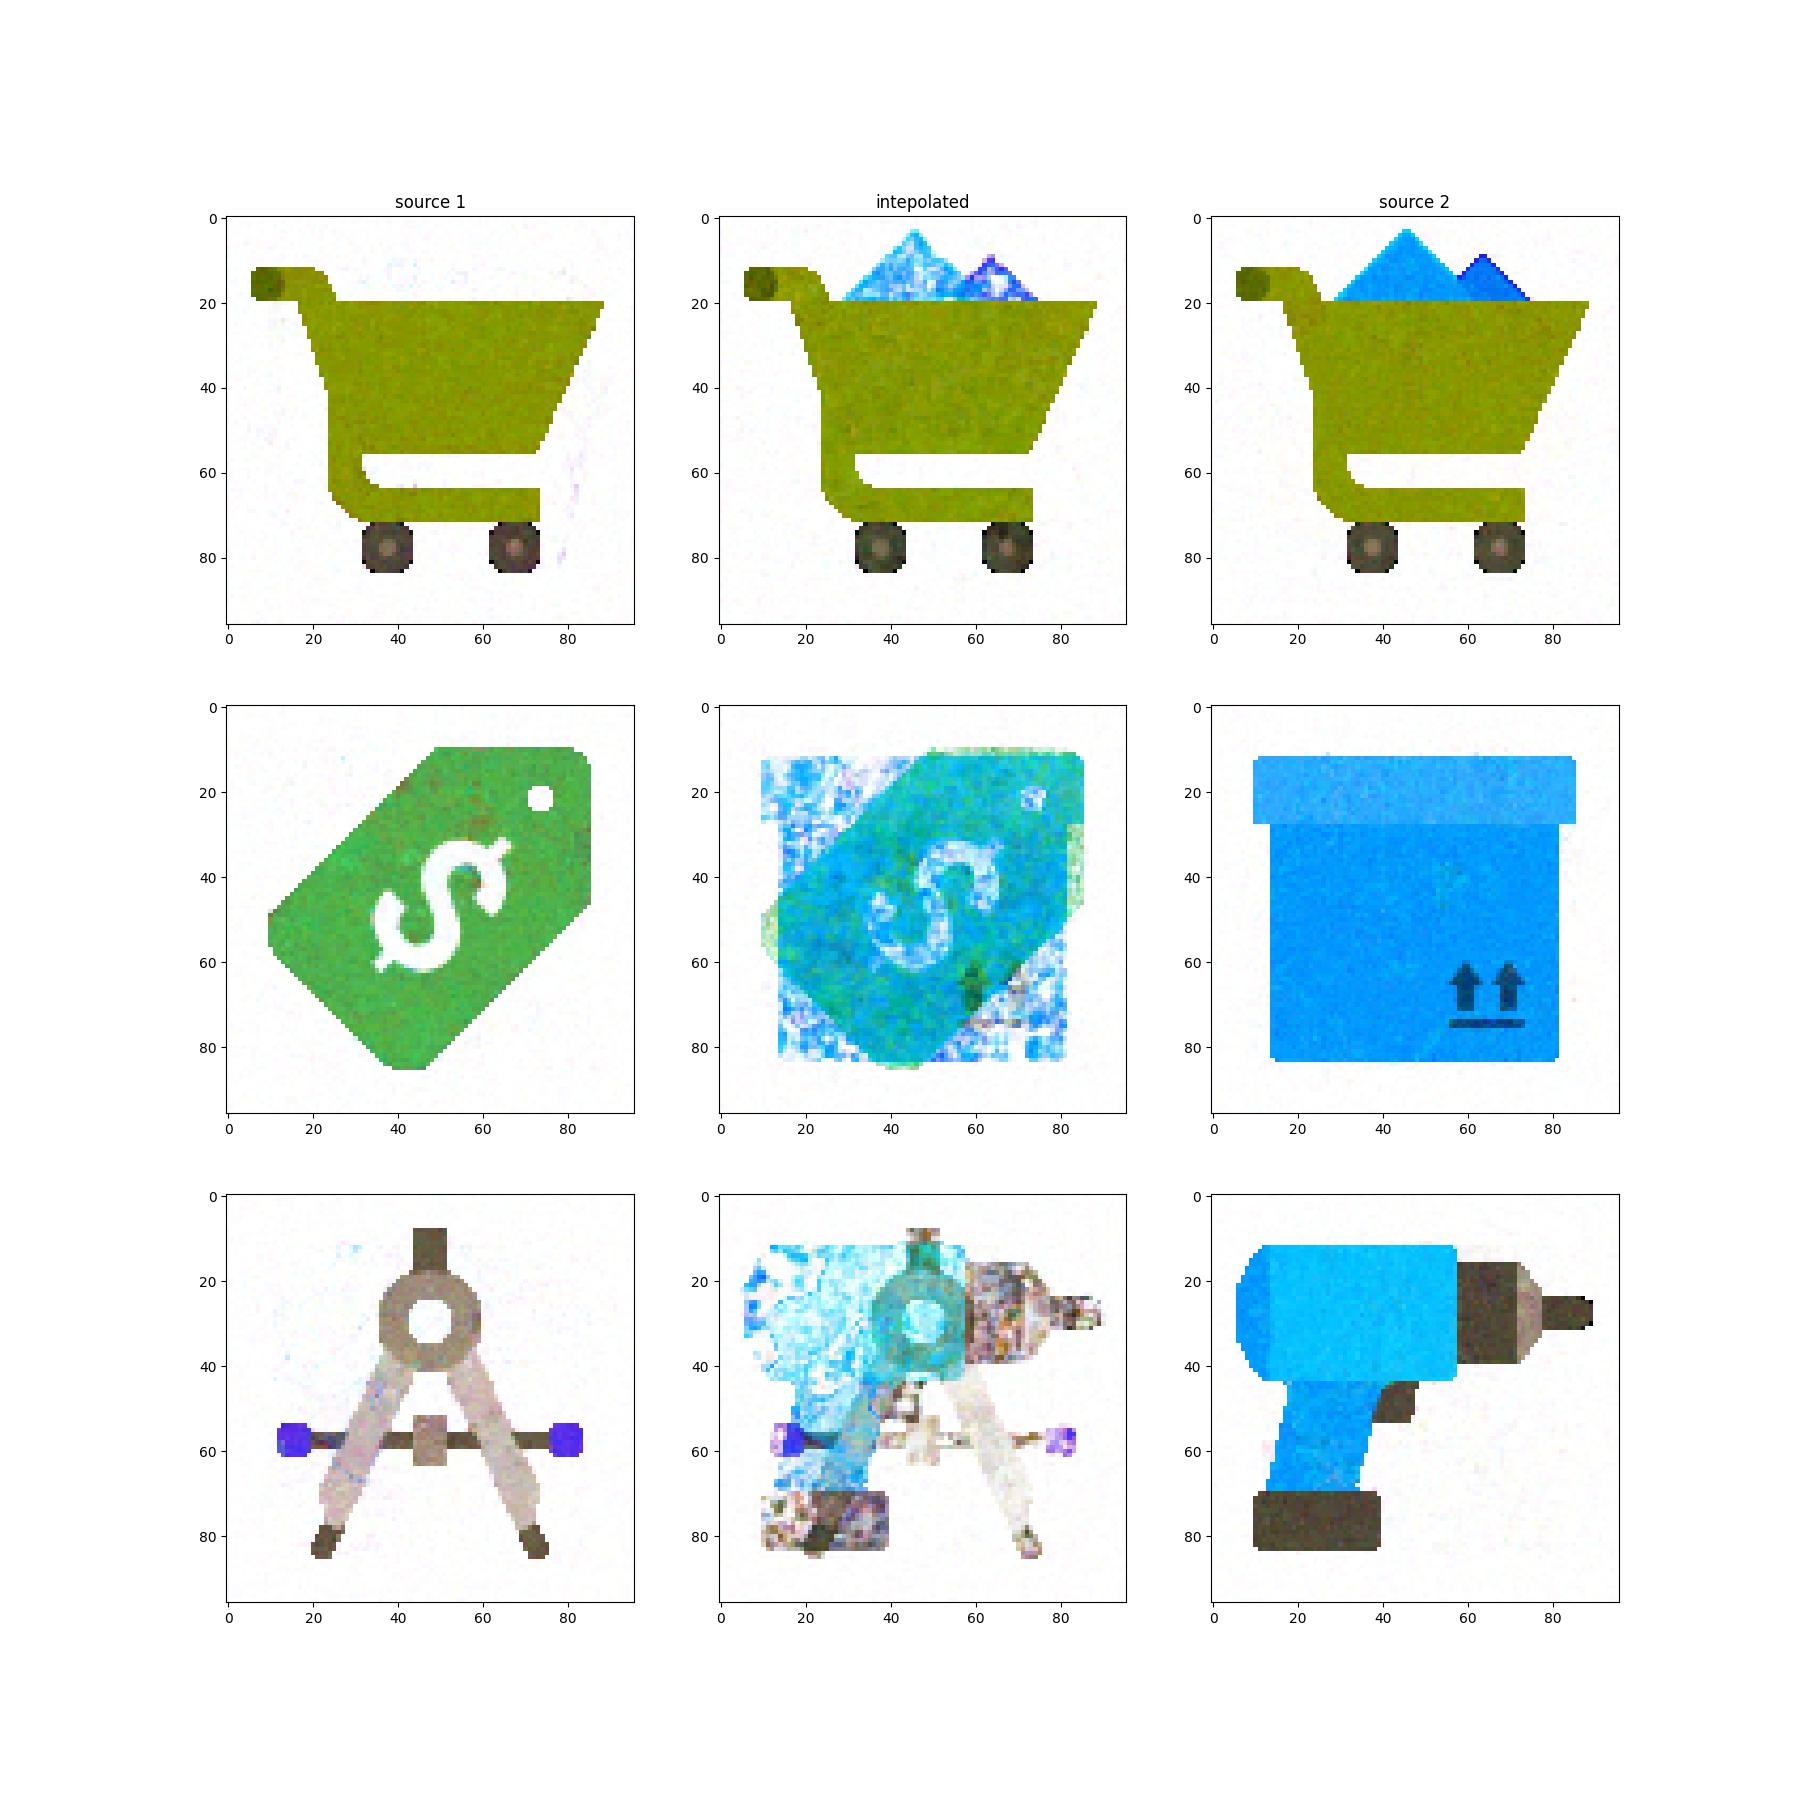
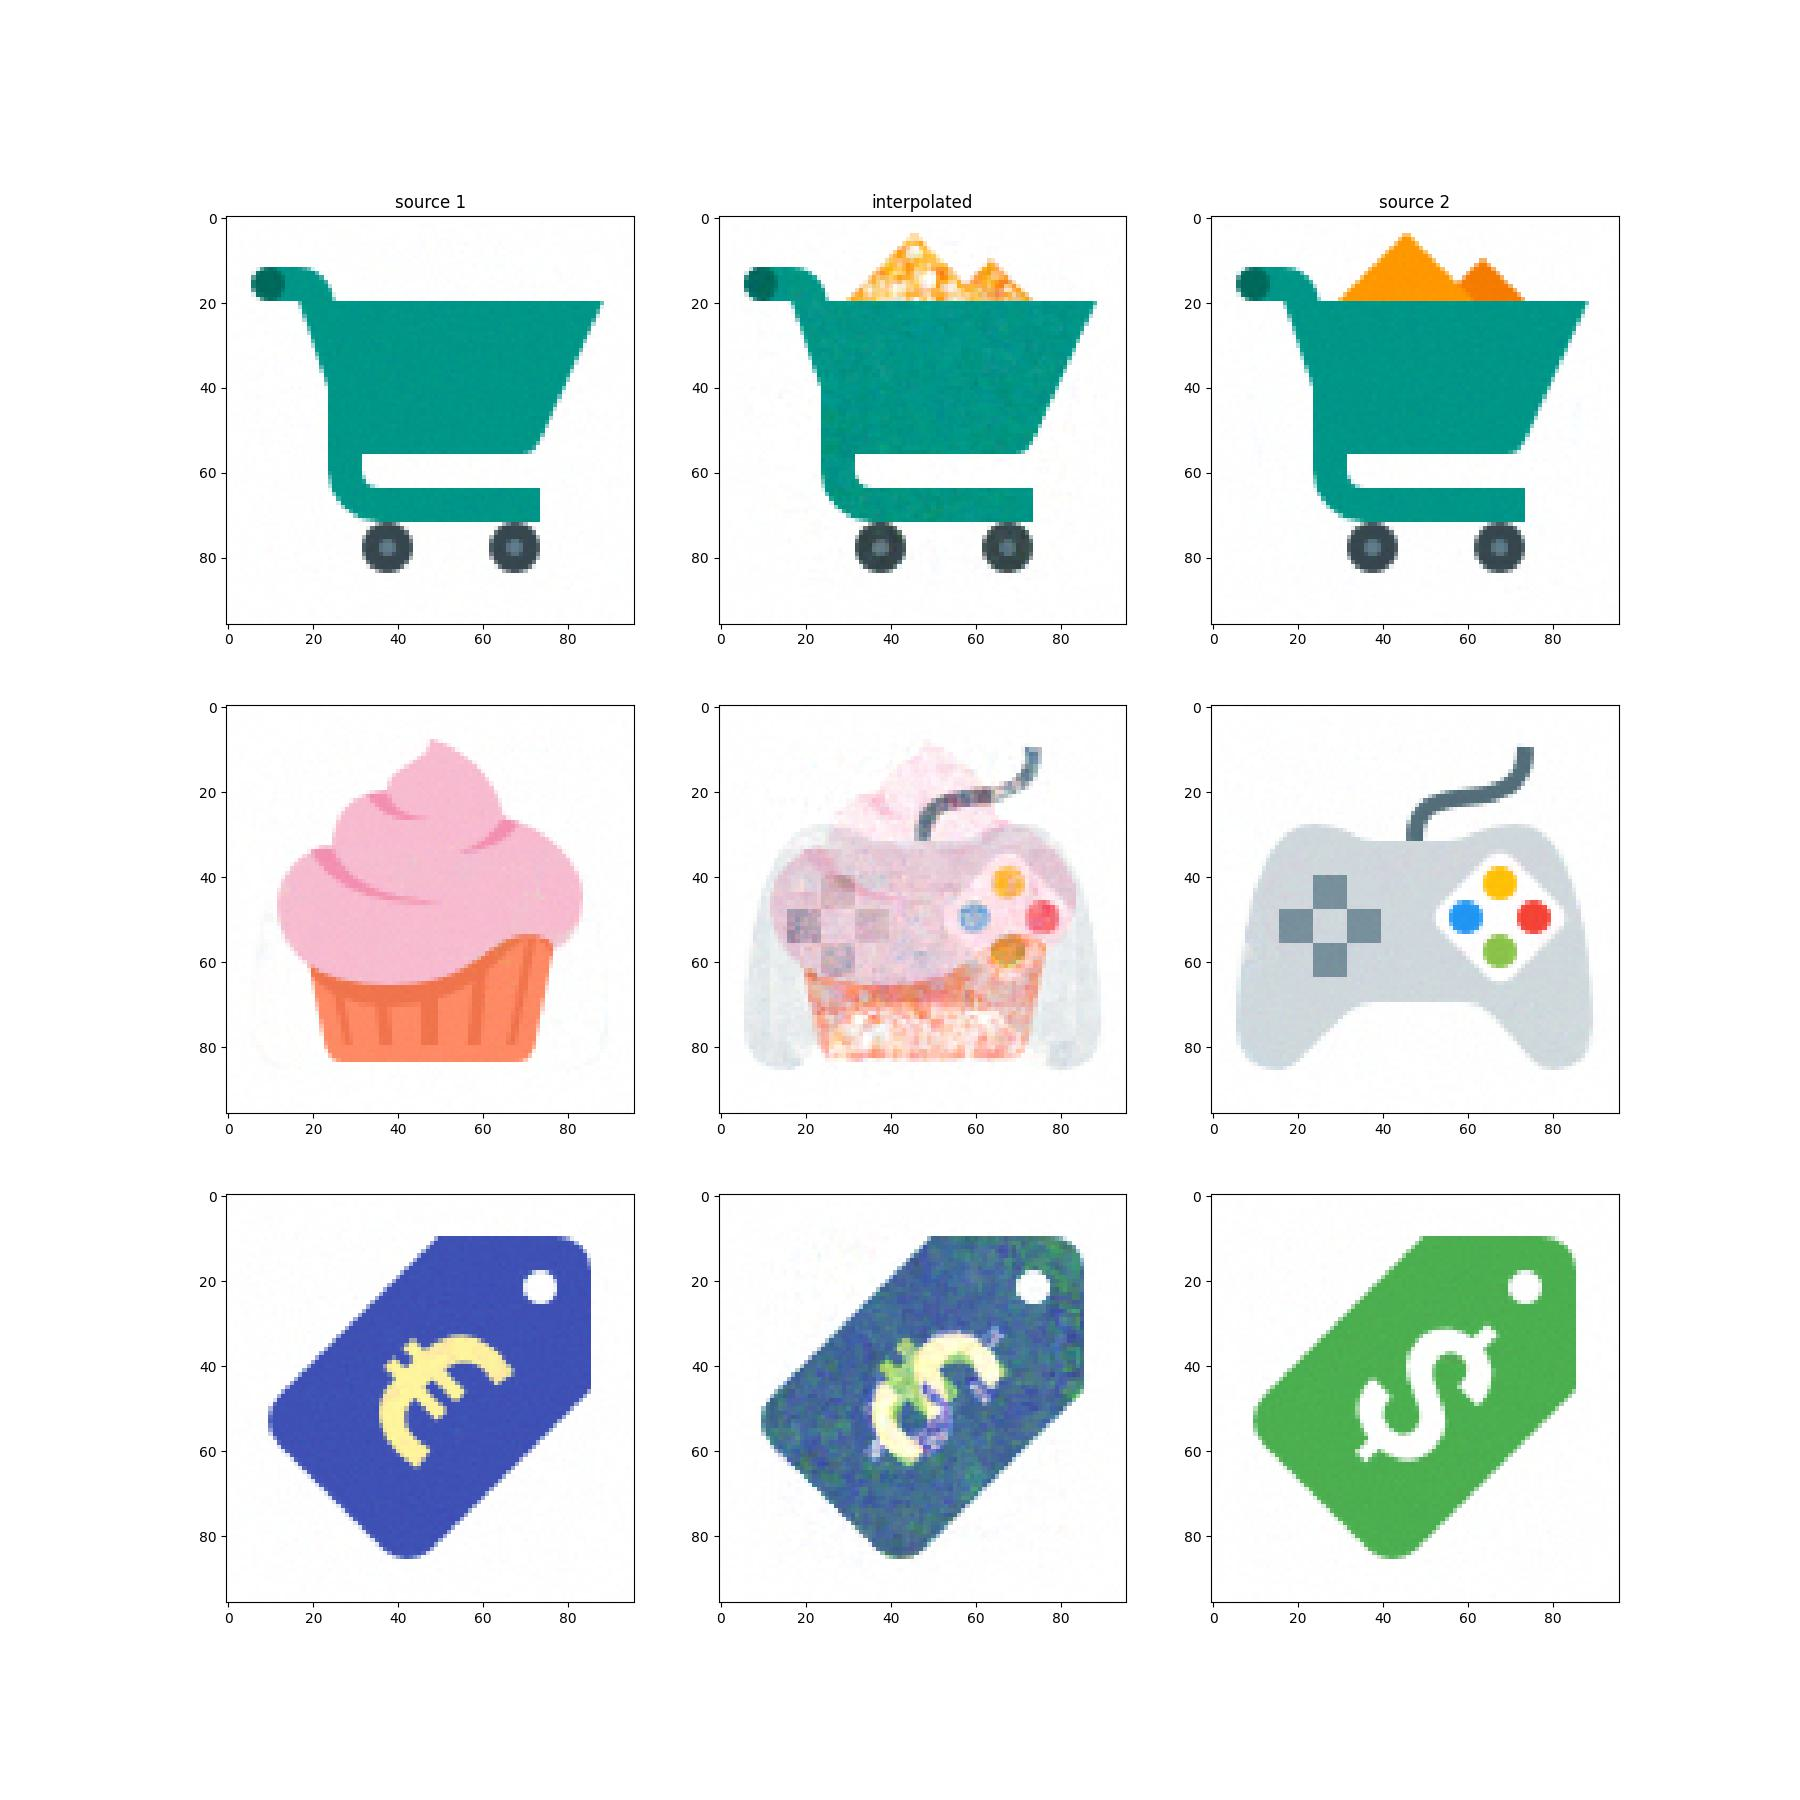
Add files via upload
fixed to white background

diff --git a/data_pipeline.py b/data_pipeline.py
@@ -1,16 +1,19 @@
 import os
 import random
 from glob import glob
-import numpy as np
+
 import cv2
+import numpy as np
 import torch
 from torch.utils.data import Dataset
 
 
 def get_mgrid(sidelen: int, dim=2):
-    '''Generates a flattened grid of (x,y,...) coordinates in a range of -1 to 1.
+    """
+    Generates a flattened grid of (x,y,...) coordinates in a range of -1 to 1.
     sidelen: int
-    dim: int'''
+    dim: int
+    """
     tensors = tuple(dim * [torch.linspace(-1, 1, steps=sidelen)])
     mgrid = torch.stack(torch.meshgrid(*tensors), dim=-1)
     mgrid = mgrid.reshape(-1, dim)
@@ -27,20 +30,30 @@ def collate_1d(data):
     return torch.concat(x, dim=0), torch.concat(y, dim=0), meta
 
 
-def read_im(f: str):
-    return ((cv2.cvtColor(cv2.imread(f, cv2.IMREAD_UNCHANGED), cv2.COLOR_RGBA2RGB) / 255. - 0.5) * 2).astype(np.float)
+def read_im(f: str, set_transparent_to_white=True):
+    raw_img = cv2.imread(f, cv2.IMREAD_UNCHANGED)
+    # if train:
+    #     img = cv2.resize(cv2.cvtColor(raw_img, cv2.COLOR_BGRA2BGR), (48, 48))
+    # else:
+    img = cv2.cvtColor(raw_img, cv2.COLOR_RGBA2RGB)
+    # Transperent -> White for consistenty
+    if set_transparent_to_white:
+        img = (255 - raw_img[:, :, 3:]) + (raw_img[:, :, 3:] / 255 * img)
+    return ((img / 255. - 0.5) * 2).astype(np.float32)
 
 
 class ImageFitting(Dataset):
-    def __init__(self, path, limit=None, cach=True):
+    def __init__(self, path, limit=None, cach=True, train=False, set_transparent_to_white=True):
         super().__init__()
-        self.sample_list = list(glob(os.path.join(path, "*.png")))
-        if cach:
-            self._cached_samples = [read_im(f) for f in self.sample_list]
-        else:
-            self._cached_samples = None
         self.path = path
         self.limit = limit
+        self.train = train
+        self.set_transparent_to_white = set_transparent_to_white
+        self.sample_list = list(glob(os.path.join(path, "*.png")))
+        if cach:
+            self._cached_samples = [read_im(f, self.set_transparent_to_white) for f in self.sample_list]
+        else:
+            self._cached_samples = None
 
         categories = [os.path.basename(s.split("-")[0]) for s in self.sample_list]
         cats = sorted(set(categories))
@@ -54,12 +67,13 @@ class ImageFitting(Dataset):
     def __getitem__(self, idx):
         # img = transform(cv2.imread(self.sample_list[idx]))
         if self._cached_samples:
-            img = torch.tensor(self._cached_samples[idx],dtype=torch.float32)
+            img = torch.tensor(self._cached_samples[idx], dtype=torch.float32)
         else:
-            img = torch.tensor(read_im(self.sample_list[idx]),dtype=torch.float32)
+            img = torch.tensor(read_im(self.sample_list[idx], self.set_transparent_to_white), dtype=torch.float32)
         pixels = img.view(-1, img.shape[2])
         # assume square samples only
         coords = get_mgrid(img.shape[1], 2)
+
         coords = torch.concat((coords, self.mapping[idx] * torch.ones([coords.shape[0], 1])), dim=-1)
         if self.limit:
             len_coord = len(coords)

diff --git a/eval_trained.py b/eval_trained.py
@@ -4,13 +4,13 @@ from glob import glob
 from typing import List
 
 import cv2
+import matplotlib.pyplot as plt
+import numpy as np
 import torch
 
-from data_pipeline import get_mgrid
-from model import Siren
-import matplotlib.pyplot as plt
 from config import ModelConfig, add_model
-import numpy as np
+from data_pipeline import get_mgrid, read_im
+from model import Siren
 
 
 def size_interpolation_example():
@@ -37,20 +37,19 @@ def size_interpolation_example():
     plt.savefig("size_interpolation_example.jpg")
 
 
-def sort_by_similarity() -> List[int]:
-    path = r"Data\96"
+def sort_by_similarity(path: str) -> List[int]:
     sample_list = list(glob(os.path.join(path, "*.png")))
     sample_list = sorted(sample_list)
-    _cached_samples = [cv2.imread(f, cv2.IMREAD_UNCHANGED) for f in sample_list]
+    _cached_samples = [read_im(f, set_transparent_to_white=True) for f in sample_list]
     # sort by MSE similarity
-    indxs = np.argsort(np.mean(np.square(np.reshape(np.diff(_cached_samples, axis=0), (-1, 96 ** 2 * 4))), axis=1))
+    indxs = np.argsort(np.mean(np.square(np.reshape(np.diff(_cached_samples, axis=0), (-1, 96 ** 2 * 3))), axis=1))
     return indxs
 
 
 def image_interpolation_example(indxs: List[int]):
     fig, axes = plt.subplots(3, 3, figsize=(18, 18))
     # interpolate between most similar images
-    labels=["source 1", "intepolated" , "source 2"]
+    labels = ["source 1", "interpolated", "source 2"]
     for j in range(3):
         axes[0, j].title.set_text(labels[j])
     for p, idx in enumerate(indxs[:3]):
@@ -60,7 +59,9 @@ def image_interpolation_example(indxs: List[int]):
             coords = get_mgrid(res, dim=2)
             coords = torch.concat((coords, encoded_index * torch.ones([coords.shape[0], 1])), dim=-1)
             model_output_96 = model(coords)
-            axes[p, j].imshow(model_output_96.cpu().view(res, res, 3).detach().numpy() / 2 + 0.5)
+            img_96 = cv2.cvtColor(np.clip(model_output_96.cpu().view(res, res, 3).detach().numpy() / 2 + 0.5, 0, 1),
+                                  cv2.COLOR_RGB2BGR)
+            axes[p, j].imshow(img_96)
     plt.savefig("image_interpolation_example.jpg")
 
 
@@ -80,7 +81,7 @@ if __name__ == "__main__":
     size_interpolation_example()
 
     # Image interpolation example
-
-    indxs = sort_by_similarity()
+    dataset = r"Data\96"
+    indxs = sort_by_similarity(dataset)
 
     image_interpolation_example(indxs)

diff --git a/model.py b/model.py
@@ -43,15 +43,15 @@ class SineLayer(nn.Module):
                 self.linear.weight.uniform_(-np.sqrt(6 / self.in_features) / self.omega_0,
                                             np.sqrt(6 / self.in_features) / self.omega_0)
 
-    def forward(self, input):
-        sin = torch.sin(self.omega_0 * self.linear(input))
+    def forward(self, input_tensor):
+        sin = torch.sin(self.omega_0 * self.linear(input_tensor))
         if self.residual:
-            sin += input
+            sin += input_tensor
         return sin
 
-    def forward_with_intermediate(self, input):
+    def forward_with_intermediate(self, input_tensor):
         # For visualization of activation distributions
-        intermediate = self.omega_0 * self.linear(input)
+        intermediate = self.omega_0 * self.linear(input_tensor)
         return torch.sin(intermediate), intermediate
 
 
@@ -109,12 +109,14 @@ class Siren(LightningModule):
         return loss
 
     def train_dataloader(self):
-        return DataLoader(ImageFitting(self.config.train_dataset_path, limit=self.config.limit),
+        return DataLoader(ImageFitting(self.config.train_dataset_path, limit=self.config.limit, train=True,
+                                       set_transparent_to_white=self.config.set_transparent_to_white),
                           batch_size=self.config.batch_size,
                           collate_fn=collate_1d, shuffle=True, num_workers=self.config.train_workers)
 
     def val_dataloader(self):
-        return DataLoader(ImageFitting(self.config.validation_dataset_path), batch_size=4,
+        return DataLoader(ImageFitting(self.config.validation_dataset_path,
+                                       set_transparent_to_white=self.config.set_transparent_to_white), batch_size=4,
                           collate_fn=collate_1d)
 
     def configure_optimizers(self):

diff --git a/train.py b/train.py
@@ -1,10 +1,10 @@
 import argparse
 
-import wandb
 from pytorch_lightning import Trainer
 from pytorch_lightning.callbacks import ModelCheckpoint, LearningRateMonitor
 from pytorch_lightning.loggers import WandbLogger
 
+import wandb
 from config import ModelConfig, add_model
 from model import Siren
 

diff --git a/README.md b/README.md
@@ -35,7 +35,7 @@ usage: train.py [-h] [--name NAME] [--in_features IN_FEATURES]
 </pre>
 
 
-Training convergence that I have conducted , [exp1](https://wandb.ai/rusalmighty/Image%20Representation%20Experiment/runs/o8ehlbdz?workspace=user-)
+Training convergence that I have conducted , [experiments](https://wandb.ai/rusalmighty/Image%20Representation%20Experiment?workspace=user-)
 ### Evaluate
 to produce evaluation images
 ```
